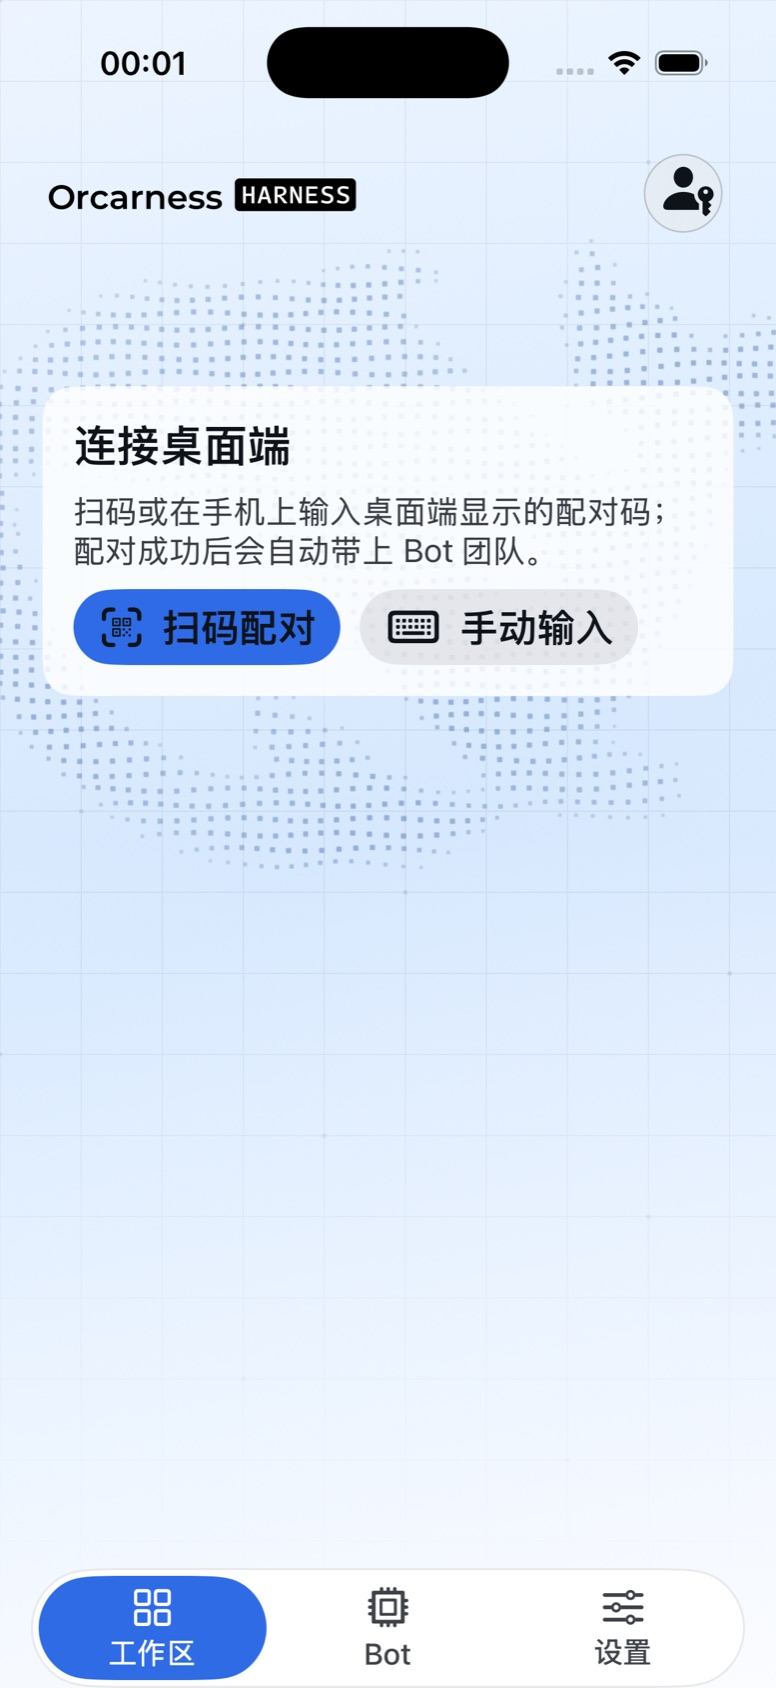
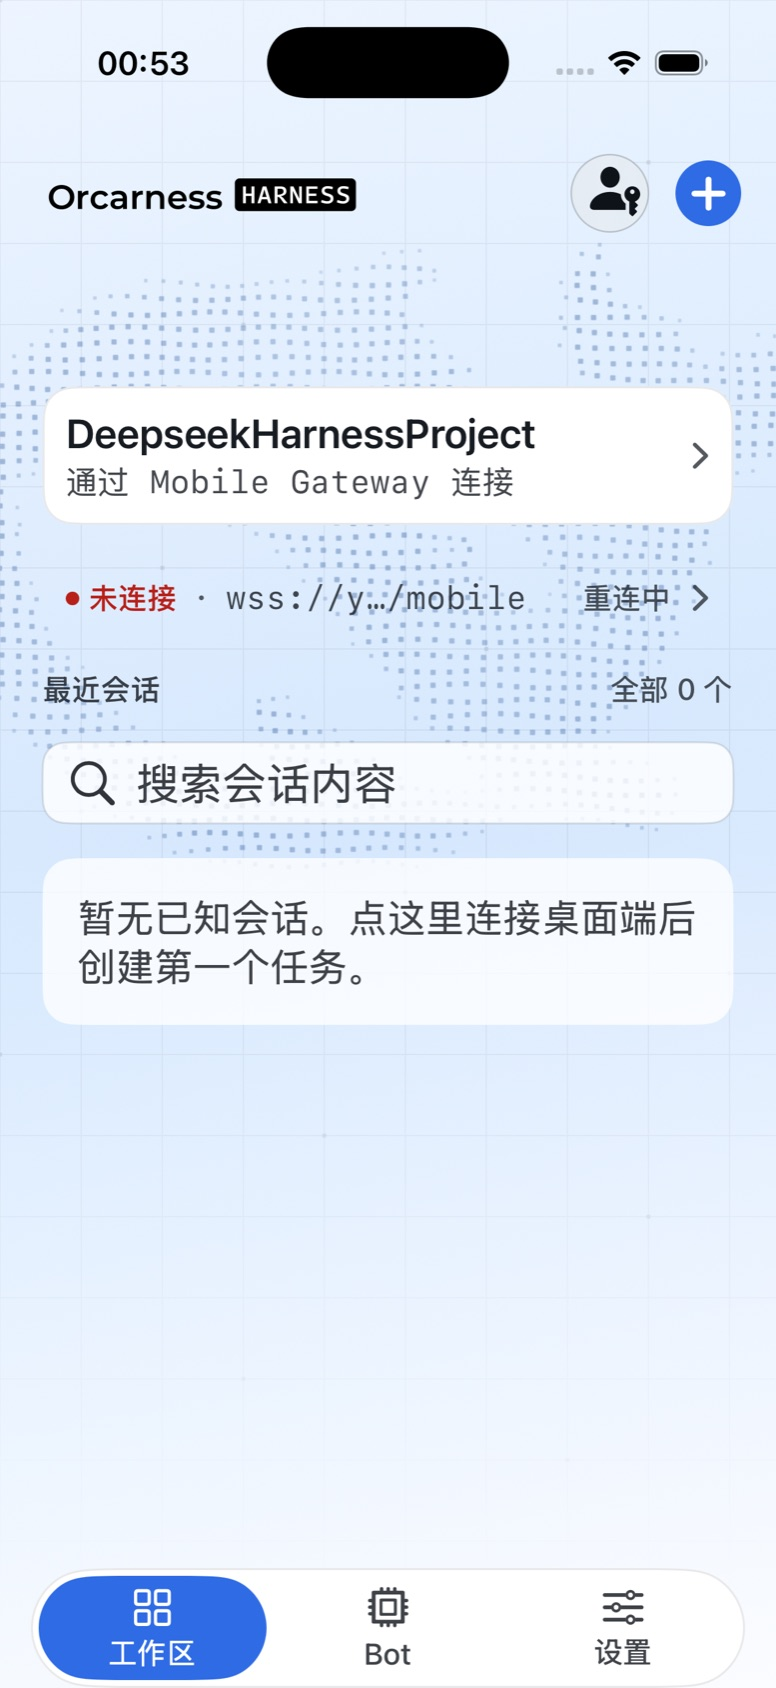
feat(ui): Bot tab 角标=待办数（Chief 裁定）+ 01 屏 normal 态截图证据
- Bot tab 角标按裁定从留空改为待办数：pendingApprovalRequests +
  pendingQuestionRequests + bridgePendingQuestions 计数；当前 tab 由
  DSHTabBar 自行隐藏角标（design-handoff §5 不重复提示）
- 截图：模拟器注入合成网关档案后的 normal 态结构（深/浅）——
  页头圆形「+」/工作区卡独立（无连接指示）/网关行独立（未连接+重连中）/
  最近会话+「全部 0 个」/空态卡/tab bar。
  会话行（模式·轮次·步数+状态胶囊）与运行卡需真实会话数据，本截图不含——
  需真机已配对环境验证
- 注入方式：临时单测经 UserDefaults.standard 写真实 GatewayProfile 编码
  （直接改容器 plist 被 cfprefsd 缓存挡掉，弃用）；测试用完已删

diff --git a/DeepSeekHarnessMobile/Views/WorkspaceView.swift b/DeepSeekHarnessMobile/Views/WorkspaceView.swift
@@ -308,7 +308,7 @@ struct WorkspaceView: View {
         // 2/5-a：底部 tab bar（参考实现 S01 ⑥）。工作区/Bot 切既有内容分段；
         // 设置走既有 onSettings push——设置页盖在本页之上，tab bar 不需要「设置选中」态。
         .safeAreaInset(edge: .bottom) {
-            DSHTabBar(selection: selectedHomeTab, badges: [:]) { tab in
+            DSHTabBar(selection: selectedHomeTab, badges: [.bots: botsTabBadge]) { tab in
                 switch tab {
                 case .workspace: primaryTab = .sessions
                 case .bots: primaryTab = .bots
@@ -321,6 +321,14 @@ struct WorkspaceView: View {
     /// tab bar 的选中态从内容分段推导（工作区↔会话段、Bot↔Bot 段），不设第二状态源。
     private var selectedHomeTab: DSHTab {
         primaryTab == .sessions ? .workspace : .bots
+    }
+
+    /// Bot tab 角标（Chief 裁定 2026-10-29）：待办数 = 等你审批 + 等你回答。
+    /// 当前 tab 的角标由 DSHTabBar 自行隐藏（design-handoff §5：不重复提示）。
+    private var botsTabBadge: Int {
+        store.pendingApprovalRequests.count
+            + store.pendingQuestionRequests.count
+            + store.bridgePendingQuestions.count
     }
 
     /// 2/5-a 一屏三态（参考实现 S01）：unpaired = 从未配对过（无任何主机档案）→
